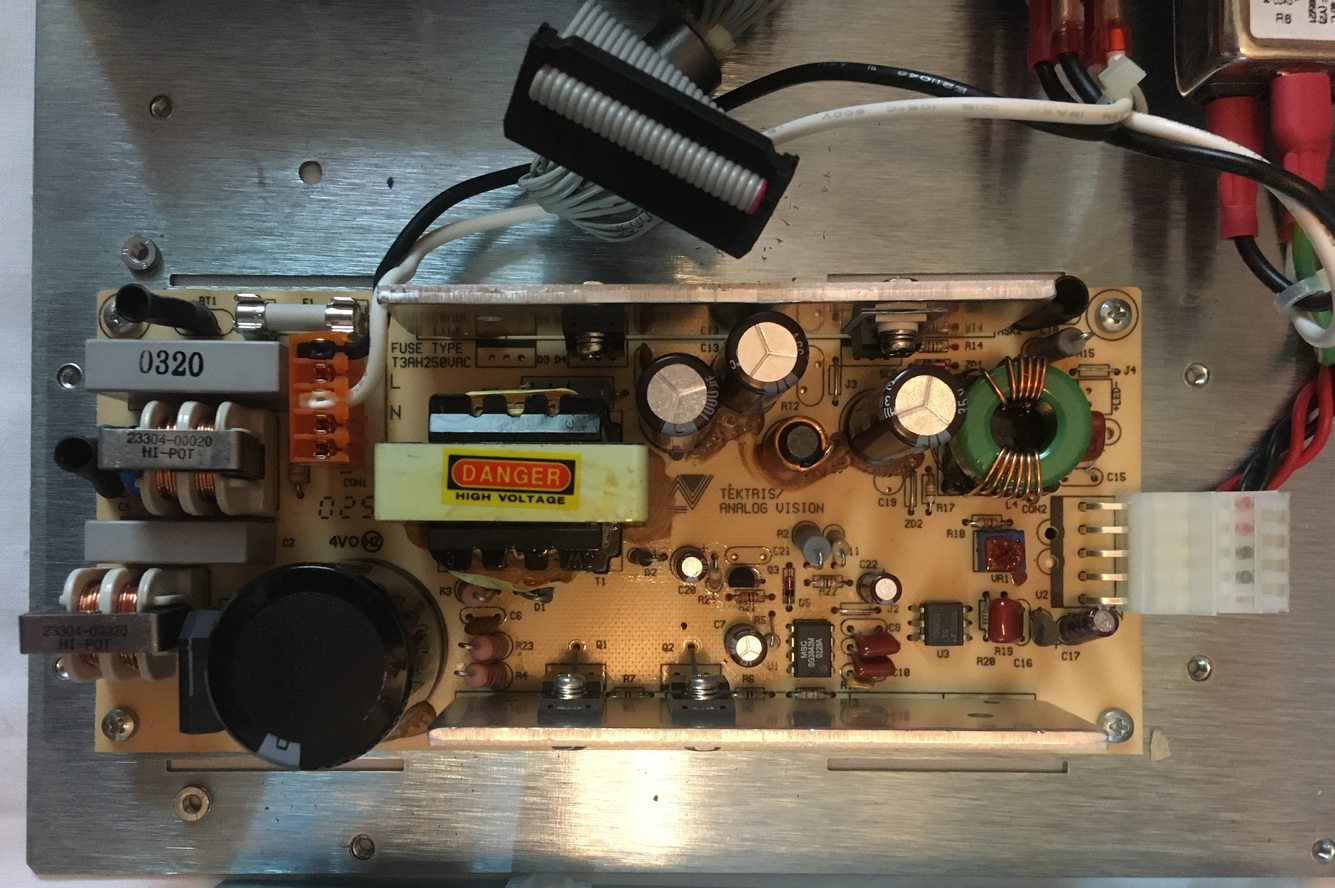
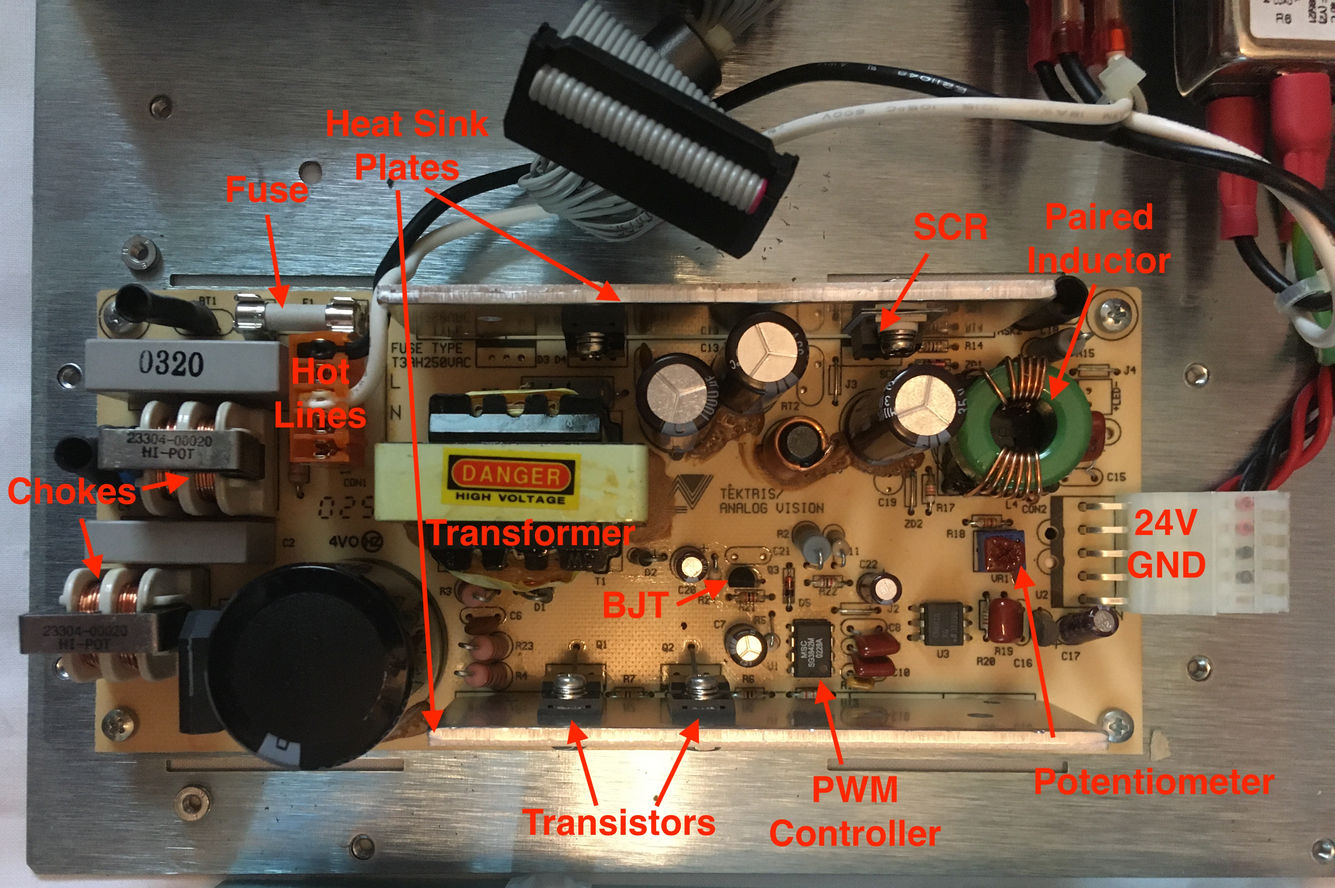
added a lot to power PCB

diff --git a/teardowns/IDprinter.html b/teardowns/IDprinter.html
@@ -149,8 +149,8 @@
 		</li>
 	</ol>
 	<br>
-	<p>&emsp;&emsp;I examined many of the ICs on this board in great depth, but not all of them. For many of the ICs, I either couldn't read the label or find information about the product by looking up the model number on the label. Furthermore, there were many other components besides the ICs which I haven't even mentioned. So before I conclude the discussion of the main PCB, I'd like to mention a few important components on this board. There are also several spots on the board that don't seem to be in use. These locations are possibly reserved for components used in other configurations of the printer. For example, there is a large MOSFET type spot with solder pads tinned, but empty. Additionally, a few of the ports weren't in use.</p>
-	<p>&emsp;&emsp;A large rectangular chip lies just below the Coldfire microcontroller with fine pitch connectors. Given these physical parameters and its proximity to the microcontroller, I would guess it's some sort of memory unit. At the bottom right corner of the board lies a long DIP with a heat sink attached on top. Not being able to read the label, I initially wasn't sure what this component was. Nonetheless it seemed likely that it was some sort of computational unit or driver given how hot it was evidently getting. Thanks to the technical manual for the product, it was identified as the driver for the stepper motor. To the right of the DIP with heat sink is another voltage regulator looking component (could also be a MOSFET). If it's a voltage regulator, maybe it's used to step up the voltage for the heater. To the left of the DIP with heat sink is a large capacitor (25V 6800uF). Possibly this capacitor is used in conjunction with the heater to decouple its power draw from that of the main control board. In other words, if the heater demanded a high power draw, the capacitor would protect the control board from otherwise shutting down from the power surge. Above and below the motor driver are four diodes. Given their proximity to the motor driver, I would expect that one diode is connecting to the driving signal for each motor. Given the large inductive load of the motors, they will cause a power surge when stopped as a result of the back EMF generated by the motor coils. To prevent this power surge from damaging the transistors in the driver, the diodes provide an alternate path for the current to travel and dissipate. There are also a pair of crystal oscillators used to track time. Why there are a pair instead of just one, I cannot say.</p>
+	<p>&emsp;&emsp;I examined many of the ICs on this board in great depth, but not all of them. For many of the ICs, I either couldn't read the label or find information about the product by looking up the model number on the label. Furthermore, there were many other components besides the ICs which I haven't even mentioned. So before I conclude the discussion of the main PCB, I'd like to mention a few important components on this board. There are also several spots on the board that don't seem to be in use. These locations are possibly reserved for components used in other configurations of the printer. For example, there is a large MOSFET type spot with solder pads tinned, but empty. Additionally, a few of the ports weren't in use. Most of these devices are CMOS type devices but there are also many other forms of electronic logic like TTL.....CMOS stands for Complementary Metal Oxide Semiconductors and consists of complementary and symmetrical pairs of of p-channel and n-channel MOSFETs.</p>
+	<p>&emsp;&emsp;A large rectangular chip lies just below the Coldfire microcontroller with fine pitch connectors. Given these physical parameters and its proximity to the microcontroller, I would guess it's some sort of memory unit. At the bottom right corner of the board lies a long DIP with a heat sink attached on top. Not being able to read the label, I initially wasn't sure what this component was. Nonetheless it seemed likely that it was some sort of computational unit or driver given how hot it was evidently getting. Thanks to the technical manual for the product, it was identified as the driver for the stepper motor. To the right of the DIP with heat sink is another voltage regulator looking component (could also be a MOSFET). If it's a voltage regulator, maybe it's used to step up the voltage for the heater. To the left of the DIP with heat sink is a large capacitor (25V 6800uF). This capacitor is used to smooth the 24V voltage coming from the power supply circuit. Above and below the motor driver are four diodes. Given their proximity to the motor driver, I would expect that one diode is connecting to the driving signal for each motor. Given the large inductive load of the motors, they will cause a power surge when stopped as a result of the back EMF generated by the motor coils. To prevent this power surge from damaging the transistors in the driver, the diodes provide an alternate path for the current to travel and dissipate. There are also a pair of crystal oscillators used to track time. Why there are a pair instead of just one, I cannot say.</p>
 	<p>&emsp;&emsp;For the components who's labels I could read and interpret, many of them used a similar labelling scheme. Typically, the model number was printed on one line and a manufacturing code printed on the line beneath it. The manufacturing code usually consisted of some letters&mdash;likely the location of a manufacturing facility&mdash;followed by some numbers&mdash;likely the date that product was manufactured. This date was often reported using a year-week scheme. For example, 0309 at the end of the microprocessor label to indicate the 9th work week of 2003.</p>
 	<img src="../images/teardowns/IDprinter/mainPCBback.jpg" alt="Many SMT components and One Red Wire Linking Components Across Board" class="center">
 	<p class="label">Main PCB - Bottom View</p>
@@ -211,10 +211,30 @@
 </section>
 <hr>
 <section>
+	<h3>Power Supply PCB</h3>
 	<img src="../images/teardowns/IDprinter/powerPCBcover.jpg" alt="Rectangular Metal Cover with Ribbed Slots Fastened Over PCB" class="center">
-	<p class="label">Metal Cover for Power PCB</p>
+	<p class="label">Metal Cover for Power Supply Unit</p>
 	<img src="../images/teardowns/IDprinter/powerPCB.jpg" alt="Brown PCB with Mostly THT components" class="center">
-	<p class="label">Power PCB</p>
+	<p class="label">Power Supply Unit</p>
+	<p>&emsp;&emsp;The power supply PCB or power supply unit (PSU) converts high voltage AC power to low voltage DC power. It receives an AC input between 100 to 240V and produces a DC output at 24V and 3.3A. There are two sets of ground and power lines exiting the PSU, but they are merged to form just one set of ground and power lines once reaching the CPU. This product was produced by Analog Vision, a company known for PSU production with factories based out of Taiwan. The product is labelled as a switching power supply and having model number FUEA240 on the side of the large electrolytic capacitor. Researching this model online, I learned that the board is rated with an efficiency of 75%. In other words, it loses a quarter of the energy that passes through it to heat. This would explain why there is so much metal around this component and the ribbing on the metal cover which are likely used to help dissipate heat from this component. I've broken the power conversion process into four key steps: AC line filtration, AC-AC step down transformation, AC-DC rectification, and then DC-DC flyback conversion.</p>
+	<br>
+	<h4>AC Line Filtration</h4>
+	<p>&emsp;&emsp;Information about this PSU model online advertises its built-in EMI (Electro-Magnetic Interference) filter. The first step in filtering the AC signal coming from the wall outlet is an inlet with attached filtering circuit (<a href="https://www.datasheetarchive.com/pdf/download.php?id=611a3eaaed16f372ed57070ee943776857adc6&type=P&term=FBNAB2470ZB000">datasheet</a>). Looking at the circuit described on the label of the inlet filter, there appears to be an X-capacitor to the left of an inductive load and a set of Y-capacitors to the right. Based on the information provided in a helpful <a href="https://www.youtube.com/watch?v=r-pokiz71TY">YouTube video</a> on AC line filtering, I believe this schematic indicates that the filtering circuit contains both differential and common mode chokes. From my limited understanding, there is differential mode noise and common mode noise present on any AC line. Differential mode noise exists on the signal as it travels from either hot line to ground, but acts in opposite directions between the two lines. To the contrary, common mode noise exists on both lines and acts in the same direction. To reduce these two forms of noise, a set of filtering inductors and capacitors are used. To reduce differential mode noise on each line, a single-coil inductor called a differential mode choke is used on each line with the return path formed by capacitors called X-capacitors feeding from line to line or line to neutral. To reduce common mode noise across both lines, a double-coil inductor called a common mode choke is then used on both lines simultaneously with the return path formed by capacitors called Y-capacitors feeding from line to ground.</p>
+	<p>&emsp;&emsp;But the filtering process does not end simply at the inlet! There are another set of large inductors and capacitors on the left side of the board. Given the two-coil nature of the large inductors, I would be inclined to say that these are additional common mode chokes with the nearby gray film capacitors acting as Y-capacitors. It was interesting to note that the inductors were labelled with some number followed by "HI-POT". Looking up "HI-POT", I learned that a hipot test is a common type of test used to measure the dielectric withstand voltage of an electrical product. For these common mode chokes that means at what voltage does the white insulating piece between the pair of inductor coils fail and arcing occur between them. Following the path between the common mode chokes and the transformer used in the next step, there is a fat capacitor rated for 400V and 220uF. This capacitor is possibly used to further smooth the incoming AC signal before it enters the transformer.</p>
+	<br>
+	<h4>AC-AC Step Down Transformation</h4>
+	<p>&emsp;&emsp;The transformer block labelled with "Danger High Voltage" and wrapped in yellow tape is used to step down the voltage from 120V to some lower voltage. To what voltage I'm not sure exactly, but likely not 24V exactly as there is still a later voltage conversion step. Since the input voltage can be anywhere from 100-240V, the power supply circuit somehow must be able to sense the input voltage and adjust the voltage appropriately to always output 24V. The transformer is a static voltage conversion component as it will always reduce the voltage by the same ratio as its transformation capability is set by the ratio of the number of turns in the pair of coils. Conversely, the output voltage of the flyback converter&mdash;which will be discussed in greater depth later&mdash;can be manipulated dynamically with a PWM signal. Therefore, the transformer helps to step down the voltage some, but ultimately the flyback converter is necessary to bring the output voltage to exactly 24V.</p>
+	<br>
+	<h4>AC-DC Rectification</h4>
+	<p>&emsp;&emsp;This is the first power supply board I have seen that does not appear to possess the typical four diode full bridge rectifier. Instead, this PSU uses a silicon-controlled rectifier (SCR) to rectify the power signal. It does so by only permitting some amount of the positive voltage current of the AC line to pass through it. Unlike the full bridge rectifier which outputs current whether the AC is positive or negative, the SCR only outputs current when the AC is positive. This may sound similar to just using a single diode to rectify an AC signal, but in this case the flow of positive current through the SCR can also be controlled by inputs to its gate pin.</p>
+	<br>
+	<h4>DC-DC Flyback Conversion</h4>
+	<p>&emsp;&emsp;The flyback converter is used to adjust the voltage of the DC signal to bring it to approximately 24V to be sent off to the main control board. The flyback converter circuit is composed of a paired inductor, transistor, capacitor, diode, and PWM controller IC. The flyback converter is similar in function and principle to the buck-boost converter, another form of DC-DC voltage converter. However, the flyback converter uses a paired inductor in place of the singular inductor in the buck-boost converter. This has the advantage of allowing for multiple different voltage outputs, greater flexibility in voltage conversion by manipulating coil winding ratios, and electrical isolation between the input and output voltages.</p>
+	<p>&emsp;&emsp;When I first heard "paired inductor", I thought of transformers as this was one of the first components I learned about through my teardowns. Although both components contain a pair of inductors. Transformers are restricted to AC circuits where they are used to raise or lower the voltage. As the current alternates in the primary coil, the induced current in the secondary coil also alternates continuosly. Paired inductors are usually used in DC circuits where energy is first stored in the magnetic field of the inductor core through current flow in one coil. Then the current is halted in the first coil and the magnetic field stored in the inductor core induces a current in the second coil.</p>
+	<p>&emsp;&emsp;As with transformers, the ratio of the number of turns on the coil plays a role in the voltage conversion in paired inductors. Looking at the paired inductor&mdash;two copper coils wrapped around green ring&mdash;though, it can be seen that the two coils both have six wrappings. Therefore, the magnitude of the output voltage is controlled solely by the ratio of time current is allowed to flow in the first coil to the time current is allowed to flow in the second coil, which together determine the strength of the magnetic field in the paired inductor. Controlling this time ratio can be accomplished by using a PWM signal such as that output by the onboard Micro-Semi-Conductor (MSC) SG3842M PWM controller (<a href="https://pdf1.alldatasheet.com/datasheet-pdf/view/76737/MICROSEMI/SG3842M.html">datasheet</a>). Together, the transistor and diode control when current is allowed to flow in each coil. The PWM signal sent to the transistor will open and close the circuit on the first coil controlling the time ratio that ultimately determines the output voltage. To smooth the triangular output signal from the paired inductor a large capacitor is used. Whenever the voltage of the output signal drops lower than the voltage across the capacitor, the capacitor discharges, thereby maintaining a higher and more consistent output signal.</p>
+	<br>
+	<p>&emsp;&emsp;There's a fuse rated for 3A and 250V. There are large metal plates attached to the power-transistor devices acting as a heatsink. There appear to be electrolytic capacitors, ceramic disck capacitors, and film capacitors. There's also this IC labelled CNX82A likely producted by Isocom Components with <a href="https://pdf1.alldatasheet.com/datasheet-pdf/view/286362/ISOCOM/CNX82A.html">datasheet</a>. There are two transistors labelled Q1 and Q2 at the bottom. There's a thermistor in the top left with some heat sink tubing over it. There also appears to be a potentiometer in blue labelled VR1. This component appears to have a wax stamp atop it. Maybe after properly setting the potentiometer during some QA process with a fine-tip screwdriver, this stamp is then placed over the potentometer to prevent further adjustment of the potentiometer's variable resistance setting. There are some missing components on this board such as an LED, some capacitors, and a thermistor.</p>
+	<p>&emsp;&emsp;Note the safety discharge line (i.e. neutral line) connected to the metal casing. These connections were called grounding lugs in the technical manual and serve to prevent conductive components in the printer from accumulating charge that could be dangerous to either the printer or anyone doing repairwork.</p>
 	<div class="doubleRowImage">
 		<img src="../images/teardowns/IDprinter/chokeView.jpg" alt="Two Sets of Copper Coils with Axis Parallel to Board Bracketed by White Plastic">
 		<p class="label">Closeup of Chokes</p>
@@ -368,7 +388,7 @@
 <hr>
 <section>
 	<h3>Conclusion</h3>
-	<p>Parts were made from all around the world: France, Taiwan, Mexico, U.S.</p>
+	<p>Parts were made from all around the world: France, Taiwan, Mexico, U.S.. Power supply board and magnetic encoder board were made by companies in Taiwan.</p>
 	<img src="../images/teardowns/IDprinter/salvagedTreasure.jpg" alt="Motors, Belts, Gears, Springs, Bolts, Nuts, Washers, Bearings, and Shafts" class="center">
 	<p class="label">Salvaged Parts</p>
 </section>
